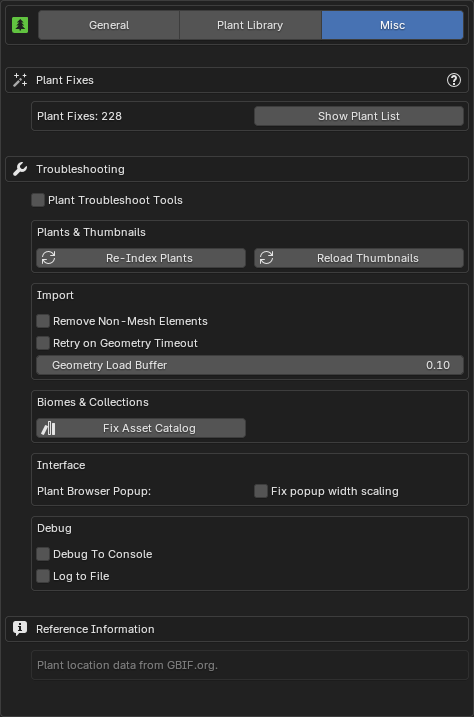
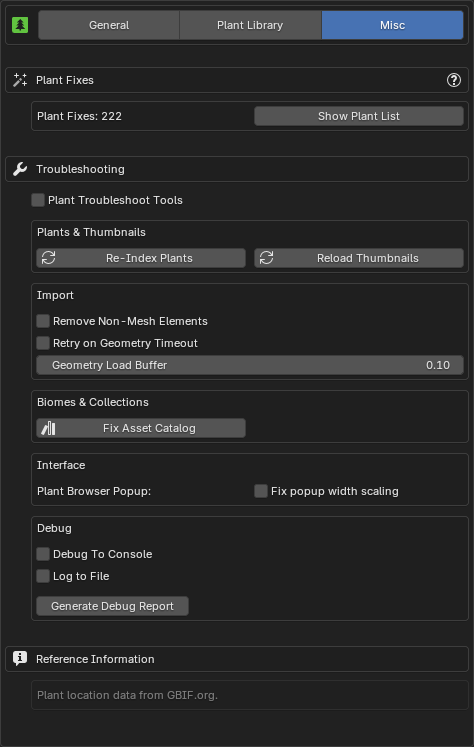
2.0.2

diff --git a/docs/workflow/post_processing.md b/docs/workflow/post_processing.md
@@ -360,6 +360,7 @@ When adding snow you can decide what systems to activate
                 - **Last Slot**
                 - **Name Match / Name Exclude**: Apply snow shader to materials matching (Match) or excluding (Exclude) a name pattern. Both options share these settings:
                     - **Filter**: String to match/exclude from material names.
+                    - **Preview Targeted Materials** :blender_icon_zoom_all:: Shows which materials on the active object would be targeted by the current filter settings. Results are displayed in a popup listing each matching material name.
                     - **Case Sensitive**: Make name filtering case-sensitive.
                     - **Use Regex**: Treat filter string as a regex pattern. Examples:
                         - `^bark`: Starts with bark.
@@ -380,6 +381,7 @@ When adding snow you can decide what systems to activate
                 - **Last Slot**
                 - **Name Match / Name Exclude**: Apply frost shader to materials matching (Match) or excluding (Exclude) a name pattern. Both options share these settings:
                     - **Filter**: String to match/exclude from material names.
+                    - **Preview Targeted Materials** :blender_icon_zoom_all:: Shows which materials on the active object would be targeted by the current filter settings. Results are displayed in a popup listing each matching material name.
                     - **Case Sensitive**: Make name filtering case-sensitive.
                     - **Use Regex**: Treat filter string as a regex pattern. Examples:
                         - `^bark`: Starts with bark.
@@ -530,7 +532,7 @@ Clicking on the header maximizes the sub-panel and presents you with all of the 
         - **Global Merge Distance**: Controls the distance threshold for the global merge. Vertices closer than this value are merged together. Higher values simplify the mesh more aggressively, reducing geometry density but potentially softening details or introducing minor artifacts.
     - **Extra Viewport Optimization**: Applies additional viewport-only optimizations to the snow system to improve performance without affecting renders.
         - **Viewport Mode**: Selects a viewport-only optimization preset that controls how snow materials and geometry are simplified for performance.
-            - **Material Only**: Applies viewport-only optimizations to the default PF2B snow material by forcing Simple mode, disabling displacement and subsurface scattering, and reducing noise detail, without modifying geometry.
+            - **Material Only**: Applies viewport-only optimizations to the default snow material by forcing Simple mode, disabling displacement and subsurface scattering, and reducing noise detail, without modifying geometry.
             - **Geometry Merge**: Applies the default snow material optimizations and performs a medium-strength vertex merge to simplify the snow geometry in the viewport.
             - **Hidden (Snowflake Indicator)**: Hides the snow geometry in the viewport and displays a wireframe snowflake marker to indicate that the object has snow applied.
 
@@ -661,9 +663,9 @@ The Frost Shader provides the same functionality for all supported assets, but i
 - **Non-PF2B Assets**: The shader is labeled simply as "Frost Shader," and you must manually apply it to appropriate materials.
 
 === "PF2B Asset"
-    ![Shader Snow](../images/snow_shader-frost-pf2b-asset.webp){ .img-box }
+    ![Frost Shader](../images/snow_shader-frost-pf2b-asset.webp){ .img-box }
 === "Non-PF2B Asset"
-    ![Shader Snow](../images/snow_shader-frost-general.webp){ .img-box }
+    ![Frost Shader](../images/snow_shader-frost-general.webp){ .img-box }
 
 
 Clicking on the panel header will show a popup to edit the shader module directly on all materials on the selected plant (in the same way as described in the [Material Editing](#material-editing) section previously).

diff --git a/docs/about.md b/docs/about.md
@@ -11,7 +11,7 @@ tags:
 Hello, I'm Roberd, a seasoned photographer based in Sweden with a passion for digital art. With over 20 years of experience in photography, my journey into the world of digital art began as I started experimenting with various graphic software tools along the way. In 2015, I discovered Blender and was captivated by its versatility and power. It quickly became my go-to tool for satisfying my creative needs, offering endless possibilities for creating complex 3D art and animations.
 { data-search-exclude }
 
-Below, you'll find links to my social media profiles, where I share digital art projects and photography endeavors. Feel free to connect with me to explore more about my work and interests.
+Below, you'll find links to my social media profiles, where I share digital art projects and photography endeavors. Feel free to connect with me to explore more about my work.
 { data-search-exclude }
 
 <div class="grid" markdown>
@@ -29,10 +29,11 @@ Below, you'll find links to my social media profiles, where I share digital art 
 
 ## Other add-ons by me
 
-**BatchGenie**: An add-on designed to simplify and automate common Asset-related tasks.
+**BatchGenie**
+<br>Simplify and automate common asset workflows in Blender with batch tools for rendering previews, importing textures, exporting assets, and utility processing.
 
 ![BatchGenie Addon](images/other/batchgenie.webp){ .img-box align=left }
 
   - [Gumroad](https://roberd.gumroad.com/l/BatchGenie)
-  - [SuperHive (BlenderMarket)](https://blendermarket.com/products/batchgenie)
+  - [SuperHive (BlenderMarket)](https://superhivemarket.com/products/batchgenie)
   - [Documentation](https://batchgenie.roberd.net/)

diff --git a/docs/changelog.md b/docs/changelog.md
@@ -13,6 +13,24 @@ Here, you can find a list of all updates, enhancements, and bug fixes made to PF
 
 <div class="changelog" markdown>
 
+### 2.0.2 <small>2026-03-25</small>
+
+> **Compatibility:** Adds support for Blender 5.1.
+<br>**Note:** Blender 5.1 updates its internal Python version, which requires separate builds. PF2B 2.0.2 is therefore provided in two versions: one for Blender 4.5-5.0 and one for 5.1+.
+
+- **New Functionality**
+    - New **Generate Debug Report** button in Preferences to assist with troubleshooting. It can also be used to get a structured overview of your plant library. [More info](preferences/misc.md#troubleshooting)
+- **Improved Functionality**
+    - **Add Snow:** When applying snow to non-PF2B assets, it is now easier to target specific materials using the new **Preview Targeted Materials** button. [More info](workflow/post_processing.md#snow-instructions-adding-a-system-materials---snow)
+- **Other**
+    - Console debug output has been improved and standardized across actions.
+    - Updated Python libraries.
+- **Bug Fixes**
+    - Improved resilience of plant indexing when using libraries in non-standard locations or when libraries are missing, reducing edge-case errors.
+    - **Plant Renamer** utility: Placeholders from the "Formatting Help" could fail in certain cases depending on the current object selection; this issue has been resolved.
+
+---
+
 ### 2.0.1 <small>2026-02-08</small>
 
 - **Improved Functionality**

diff --git a/docs/preferences/misc.md b/docs/preferences/misc.md
@@ -65,7 +65,14 @@ Read more about it under the [PF2B: Under the Hood](../support/pf2b_under_the_ho
 
 - **Debug To Console**: Outputs debug information to the console, useful for troubleshooting. To view the console, go to `Window > Toggle System Console`.
 
+    When enabled, this mode also adds helpful tools for troubleshooting:
+
+    - In the **Plant Info Popup**, each property gains a **Copy to Clipboard** button.
+    - In **Import Overrides > Plant Specific**, each node/property also gets a **Copy to Clipboard** button.
+    - A benchmark timer is added to many actions, showing how long it took to complete.
+
     !!! warning "Performance Note"
-        This should only be enabled if you need to troubleshoot, as it may have a slight performance hit.
+        Only enable this when actively troubleshooting, as it may have a slight performance impact and console output becomes more verbose, with each action displayed across multiple lines instead of one.
 
 - **Log to File**: When enabled, all debug information and error messages are saved to a log file for easier troubleshooting and analysis. Useful for tracking issues.
+- **Generate Debug Report**: Export a .txt debug report with system, addon and plant library details. Attach it to your support request to help troubleshoot issues faster. It can also be used to get a structured overview of your plant library.

diff --git a/docs/index.md b/docs/index.md
@@ -2,7 +2,7 @@
 hide:
   - toc
 ---
-![Preferences - General](images/plants/Quercus_robur_forest_HD_[Spindle_1_summer_mat_75].webp){ align=right style="margin-top:0; max-width: 50%" }
+![Plant Example](images/plants/Quercus_robur_forest_HD_[Spindle_1_summer_mat_75].webp){ align=right style="margin-top:0; max-width: 50%" }
 **PF2B** (PlantFactory to Blender) is an addon that enables the direct import of plants created in [PlantFactory](https://www.bentley.com/software/e-on-software-free-downloads/){ target="_blank" } by e-on software into [Blender](https://www.blender.org/){ target="_blank" }. PF2B automates the setup process, allowing you to transfer detailed vegetation assets to Blender with minimal manual configuration.
 
 With PF2B, you gain access to over **200 plant species** and more than **10,000 unique presets**, with each plant procedurally generated using a customizable seed to guarantee a truly one-of-a-kind specimen every time. Available in both low-poly and high-poly variations to suit different performance and visual fidelity needs, PF2B offers a seamless workflow for bringing rich, realistic vegetation into Blender.

diff --git a/docs/getting_started.md b/docs/getting_started.md
@@ -11,6 +11,23 @@ tags:
 !!! info2 ""
     PF2B 1.x (compatible with Blender 4.2+) remains available for download but does not include features from version 2.0 onward.
 
+
+### Compatibility Table
+
+- Y axis represents the PF2B versions, X axis represents Blender versions.
+- The checkmarks are highlighting PF2B versions compatible with Blender versions.
+
+| PF2B Version     | Blender 4.2-4.4 | Blender 4.5-5.0 | Blender 5.1+ |
+|------------------|----------------|----------------|-------------|
+| 2.0.2            | -               | ✅ *          | ✅ *       |
+| 2.0.0 - 2.0.1    | -               | ✅            | -           |
+| 1.0.0 - 1.1.6    | ✅              | ✅            | -           |
+
+\* Separate builds available for Blender 4.5-5.0 and 5.1+ (due to Python version change).
+
+
+
+
 ## Notes Before Purchasing
 
 !!! warning ""
